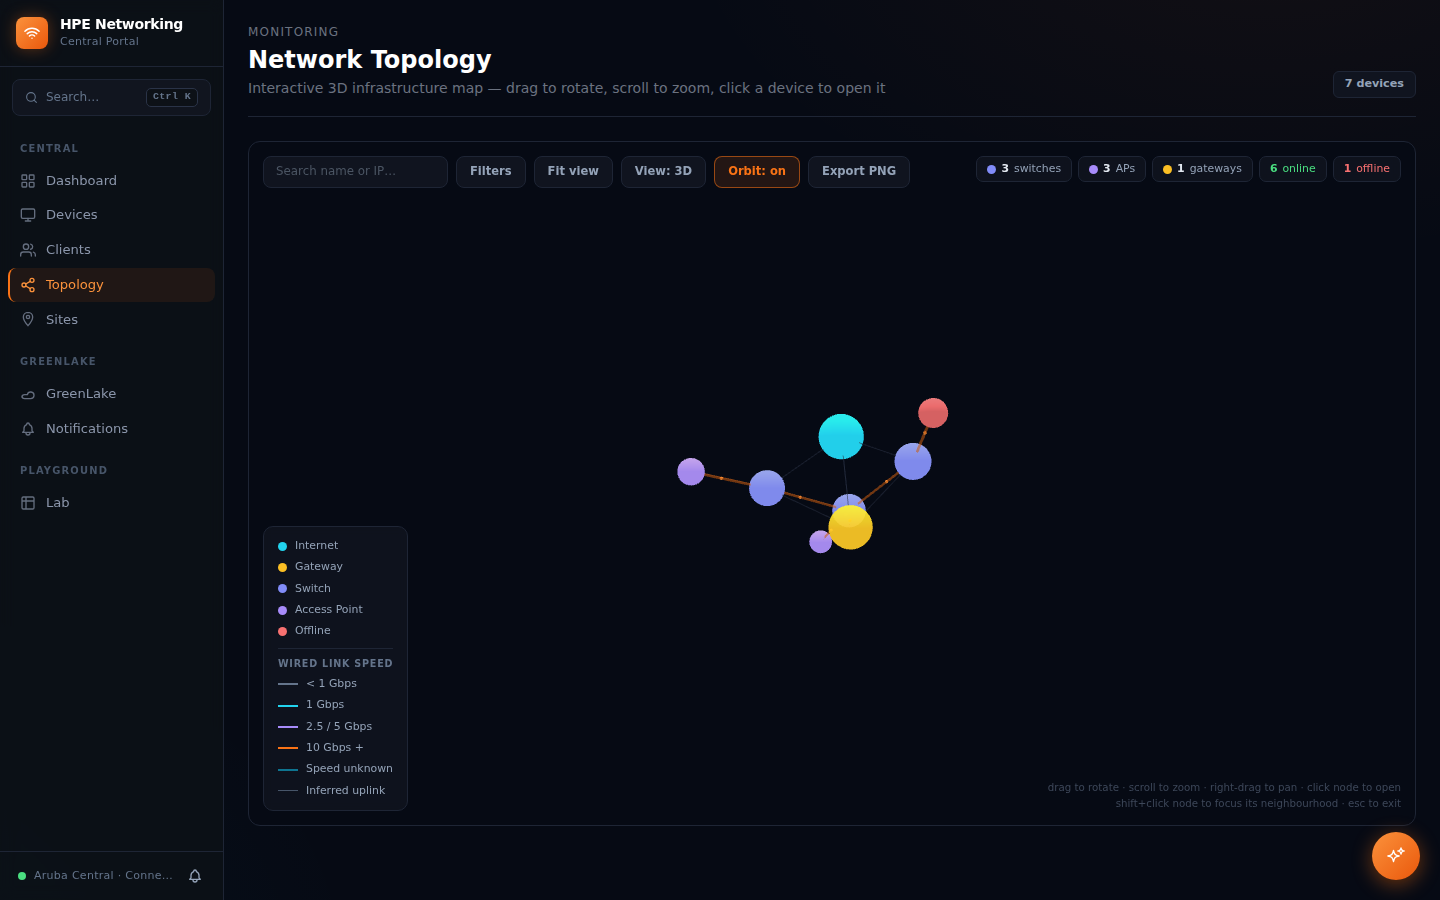
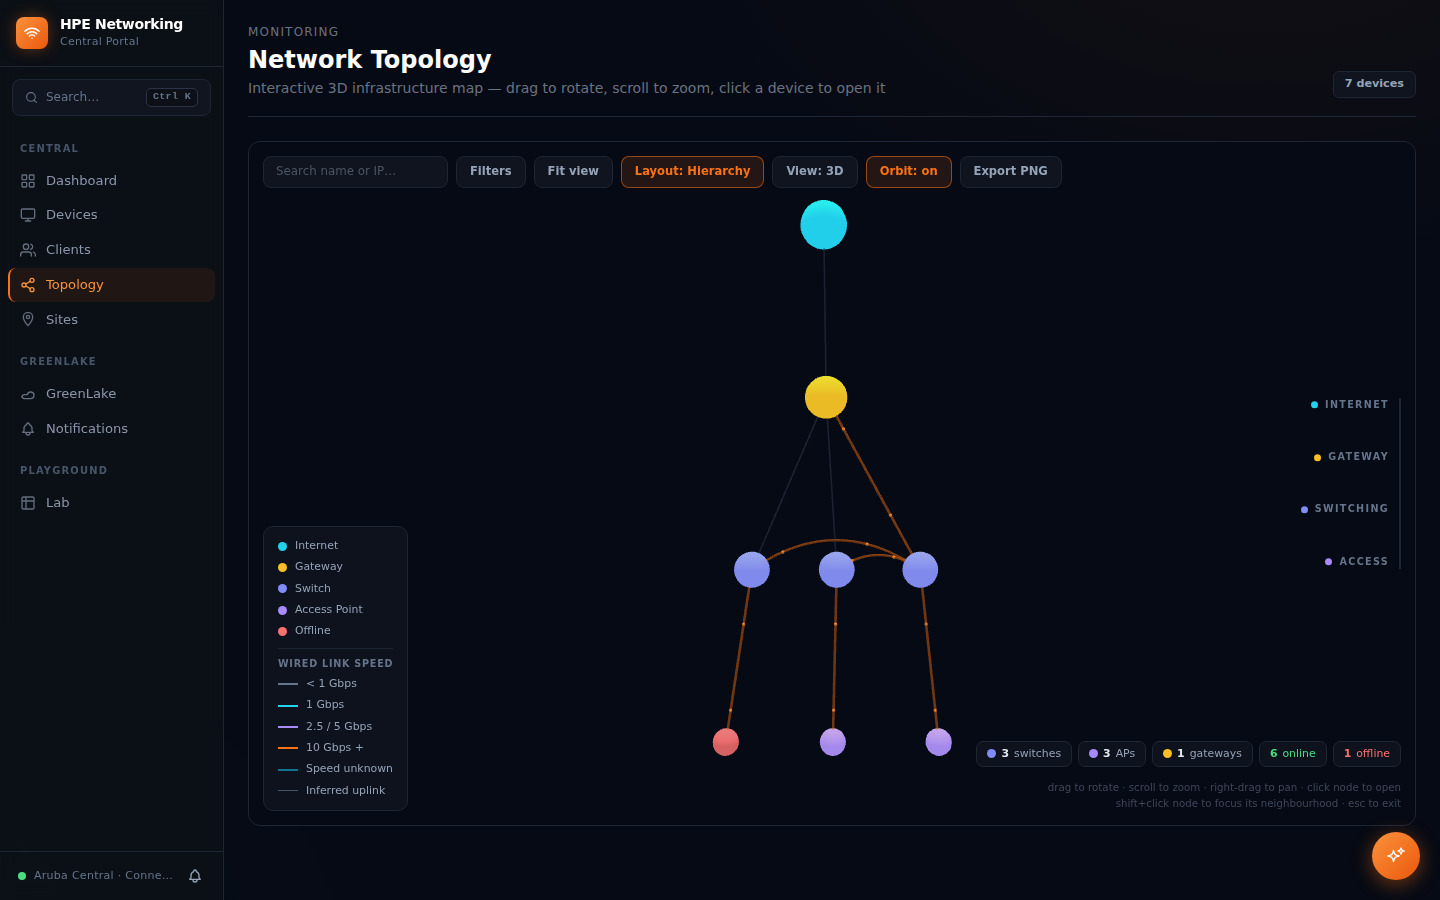
Hierarchical topology layout as default
- Tiered layout: internet / gateway / switching / access layers
  with barycenter ordering so links run vertically under parents
- Layout toggle (Hierarchy / Free 3D) persisted in localStorage;
  works with 2D mode, filters, focus, search, export
- Same-tier trunk links arc over siblings; tier rail labels;
  elevated front camera with gentle sway
- Refresh topology screenshots

https://claude.ai/code/session_01QrYoywE4bDjUDQWJe5nVXu

diff --git a/app/templates/topology.html b/app/templates/topology.html
@@ -55,6 +55,11 @@
     .topo-tip-dot { width:7px; height:7px; border-radius:50%; display:inline-block; }
     @keyframes topo-spin { to { transform:rotate(360deg); } }
     .topo-spinner { width:34px; height:34px; border-radius:50%; border:3px solid #1e2535; border-top-color:#f97316; animation:topo-spin .8s linear infinite; }
+    /* Tier axis strip (hierarchy layout): legend-like vertical rail on the
+       left edge listing the network tiers top-to-bottom. */
+    #topo-tieraxis { right:14px; top:50%; transform:translateY(-50%); display:none; flex-direction:column; align-items:flex-end; gap:38px; border-right:2px solid #1e2535; padding-right:10px; pointer-events:none; z-index:15; }
+    .topo-tier-label { display:flex; align-items:center; gap:7px; font-size:.6rem; font-weight:700; letter-spacing:.14em; text-transform:uppercase; color:#64748b; white-space:nowrap; }
+    .topo-tier-label .topo-dot { width:7px; height:7px; }
     /* Small screens: the absolute overlays collide on a narrow canvas —
        give the toolbar the full width, drop the duplicate stats strip and
        the mouse-centric hint, and slim the legend down. Visual only. */
@@ -65,6 +70,8 @@
         .topo-legend { padding:8px 11px !important; }
         .topo-legend .topo-legend-row { font-size:.62rem; gap:6px; margin-top:3px; }
         .topo-legend-speeds { display:none !important; }
+        #topo-tieraxis { gap:26px; padding-right:8px; }
+        .topo-tier-label { font-size:.54rem; letter-spacing:.1em; }
     }
 </style>
 
@@ -79,6 +86,7 @@
         </div>
         <button id="btn-filters" class="topo-btn" type="button" aria-expanded="false" aria-controls="topo-filters" aria-label="Toggle filters panel">Filters</button>
         <button id="btn-fit" class="topo-btn" type="button">Fit view</button>
+        <button id="btn-layout" class="topo-btn active" type="button" aria-label="Toggle between hierarchy and free 3D layout">Layout: Hierarchy</button>
         <button id="btn-dim" class="topo-btn" type="button">View: 3D</button>
         <button id="btn-orbit" class="topo-btn active" type="button">Orbit: on</button>
         <button id="btn-export" class="topo-btn" type="button" aria-label="Export topology view as PNG image">Export PNG</button>
@@ -107,8 +115,16 @@
         </div>
     </div>
 
-    <!-- Stats strip -->
-    <div class="topo-overlay topo-stats" style="top:14px;right:14px;display:flex;gap:6px;flex-wrap:wrap;justify-content:flex-end;">
+    <!-- Tier axis (hierarchy layout only; toggled from JS) -->
+    <div id="topo-tieraxis" class="topo-overlay" aria-hidden="true">
+        <div class="topo-tier-label"><span class="topo-dot" style="background:#22d3ee;"></span>Internet</div>
+        <div class="topo-tier-label"><span class="topo-dot" style="background:#fbbf24;"></span>Gateway</div>
+        <div class="topo-tier-label"><span class="topo-dot" style="background:#818cf8;"></span>Switching</div>
+        <div class="topo-tier-label"><span class="topo-dot" style="background:#a78bfa;"></span>Access</div>
+    </div>
+
+    <!-- Stats strip (bottom-right, above the hint, clear of the toolbar) -->
+    <div class="topo-overlay topo-stats" style="bottom:58px;right:14px;display:flex;gap:6px;flex-wrap:wrap;justify-content:flex-end;max-width:46%;">
         <span class="topo-chip"><span class="topo-dot" style="background:#818cf8;"></span><b id="stat-switch">0</b> switches</span>
         <span class="topo-chip"><span class="topo-dot" style="background:#a78bfa;"></span><b id="stat-ap">0</b> APs</span>
         <span class="topo-chip"><span class="topo-dot" style="background:#fbbf24;"></span><b id="stat-gateway">0</b> gateways</span>
@@ -226,6 +242,7 @@ if (typeof module !== 'undefined' && module.exports) { module.exports = { topoFi
         linkReal: '#0e7490',
         linkRealHi: '#22d3ee',
         linkVirtual: '#283042',
+        linkVirtualHier: '#3a4660',
         linkVirtualHi: '#475569',
         linkFaded: '#131a26'
     };
@@ -286,9 +303,14 @@ if (typeof module !== 'undefined' && module.exports) { module.exports = { topoFi
     gws.forEach(function (g) {
         allLinks.push({ id: '__inet_gw__' + g.id, source: '__internet__', target: g.id, virtual: true });
     });
-    sws.forEach(function (s) {
-        allLinks.push({ id: '__inet_sw__' + s.id, source: '__internet__', target: s.id, virtual: true });
-    });
+    // Switches hang off the internet hub directly only when there is no
+    // gateway to route through — otherwise those links would skip a tier
+    // and clutter the hierarchy.
+    if (!gws.length) {
+        sws.forEach(function (s) {
+            allLinks.push({ id: '__inet_sw__' + s.id, source: '__internet__', target: s.id, virtual: true });
+        });
+    }
     gws.forEach(function (g) {
         sws.forEach(function (s) {
             if (!realPairs.has(pairKey(g.id, s.id))) {
@@ -389,12 +411,16 @@ if (typeof module !== 'undefined' && module.exports) { module.exports = { topoFi
             return l.virtual ? C.linkVirtualHi : linkSpeedColor(l, true);
         }
         if (highlightLinks.has(l)) return l.virtual ? C.linkVirtualHi : linkSpeedColor(l, true);
-        return l.virtual ? C.linkVirtual : linkSpeedColor(l, false);
+        // Hierarchy mode: inferred uplinks form the visible spine of the tree.
+        if (l.virtual) return layoutMode === 'hier' ? C.linkVirtualHier : C.linkVirtual;
+        return linkSpeedColor(l, false);
     };
     var linkWidthAcc = function (l) {
         if (focusIds) return focusLinkSet.has(l) ? (l.virtual ? 0.8 : 2.4) : 0;
         if (highlightLinks.has(l)) return l.virtual ? 0.8 : 2.4;
-        return l.virtual ? 0 : 1.2;
+        // In hierarchy mode the inferred uplinks are the structural spine of
+        // the diagram, so give them a hairline body instead of a faint line.
+        return l.virtual ? (layoutMode === 'hier' ? 0.7 : 0) : 1.2;
     };
     var particlesAcc = function (l) {
         if (l.virtual) return 0;
@@ -402,11 +428,97 @@ if (typeof module !== 'undefined' && module.exports) { module.exports = { topoFi
         return highlightLinks.has(l) ? 4 : 2;
     };
 
+    // ── Hierarchical "tiered" layout (default) ─────────────────────────────
+    // Classic network-diagram view: internet on top, then gateways, then
+    // switches, then APs/unknowns. Each node's y is pinned to its tier plane
+    // (node.fy) and z is pinned to 0 (node.fz) so the scene reads like a
+    // flat diagram while the force engine spreads nodes horizontally and the
+    // 3D camera can still orbit it. "Free 3D" clears all pins.
+    var TIER_OF = { internet: 0, gateway: 1, switch: 2, ap: 3, unknown: 3 };
+    var TIER_H = 80;   // vertical spacing between tier planes
+    var SLOT_W = 60;   // horizontal slot width when seeding x positions
+    var nodeTier = function (n) {
+        var t = TIER_OF[n.group];
+        return t === undefined ? 3 : t;
+    };
+    var tierYOf = function (t) { return (1.5 - t) * TIER_H; };  // +120 … -120
+
+    var LAYOUT_KEY = 'topo-layout';
+    var layoutMode = 'hier';
+    try { if (localStorage.getItem(LAYOUT_KEY) === 'free') layoutMode = 'free'; } catch (e) { /* private mode */ }
+
+    // Pin fy/fz for every visible node and seed orderly x positions with a
+    // top-down barycenter sweep: each node is anchored at the mean x of its
+    // neighbours in higher tiers (APs land under their uplink switch,
+    // switches under their gateway), so links run mostly vertically with
+    // minimal crossings. Orphans (no uplink visible) go to the right edge.
+    function applyHierarchyPins(ns, ls) {
+        var adj = {};
+        ns.forEach(function (n) { adj[n.id] = []; });
+        ls.forEach(function (l) {
+            var s = endpointId(l.source), t = endpointId(l.target);
+            if (adj[s] && adj[t]) { adj[s].push(t); adj[t].push(s); }
+        });
+        var byId = {};
+        ns.forEach(function (n) { byId[n.id] = n; });
+        var tiers = [[], [], [], []];
+        ns.forEach(function (n) { tiers[nodeTier(n)].push(n); });
+        var byLabel = function (a, b) {
+            return String(a.label || a.id).localeCompare(String(b.label || b.id));
+        };
+        tiers.forEach(function (tn, t) {
+            if (t === 0) {
+                tn.sort(byLabel);
+            } else {
+                tn.forEach(function (n) {
+                    var sum = 0, cnt = 0;
+                    adj[n.id].forEach(function (oid) {
+                        var o = byId[oid];
+                        if (o && nodeTier(o) < t && typeof o.__hx === 'number') {
+                            sum += o.__hx; cnt++;
+                        }
+                    });
+                    n.__anchor = cnt ? sum / cnt : Infinity;
+                });
+                tn.sort(function (a, b) {
+                    // Infinity-Infinity is NaN (falsy) -> falls through to label
+                    return (a.__anchor - b.__anchor) || byLabel(a, b);
+                });
+            }
+            tn.forEach(function (n, i) {
+                n.__hx = (i - (tn.length - 1) / 2) * SLOT_W;
+            });
+        });
+        ns.forEach(function (n) {
+            var y = tierYOf(nodeTier(n));
+            n.x = n.__hx;
+            n.y = y;
+            n.z = 0;
+            n.fy = y;   // lock the tier plane
+            n.fz = 0;   // lock onto a flat diagram plane
+            delete n.fx;
+        });
+    }
+
+    function clearLayoutPins(ns) {
+        ns.forEach(function (n) {
+            delete n.fx; delete n.fy; delete n.fz;
+            delete n.__hx; delete n.__anchor;
+        });
+    }
+
+    // Seed the default layout before the engine boots.
+    if (layoutMode === 'hier') applyHierarchyPins(nodes, links);
+
     // ── Graph ──────────────────────────────────────────────────────────────
     function showFallback() {
         loadingEl.style.display = 'none';
         fallbackEl.style.display = 'flex';
     }
+    // Narrow canvases keep the wrapped toolbar overlaid on the scene; a
+    // moderate padding there keeps the top (internet) tier clear of it
+    // (zoomToFit pads both axes, so large values over-shrink the graph).
+    function fitPadding() { return el.clientWidth < 640 ? 70 : 90; }
     var booted = false;
     // Watchdog: if the engine never produces a first tick (silent boot
     // failure), drop to the fallback instead of spinning forever.
@@ -434,6 +546,15 @@ if (typeof module !== 'undefined' && module.exports) { module.exports = { topoFi
             .linkColor(linkColorAcc)
             .linkWidth(linkWidthAcc)
             .linkOpacity(0.55)
+            // In hierarchy mode, links between nodes of the same tier (e.g.
+            // switch-to-switch trunks) arc out of the row so they don't run
+            // straight through sibling nodes sitting between the endpoints.
+            .linkCurvature(function (l) {
+                if (layoutMode !== 'hier') return 0;
+                var s = l.source, t = l.target;
+                if (!s || !t || typeof s !== 'object' || typeof t !== 'object') return 0;
+                return nodeTier(s) === nodeTier(t) ? 0.35 : 0;
+            })
             .linkDirectionalParticles(particlesAcc)
             .linkDirectionalParticleWidth(1.6)
             // Particle colour and speed both track the link's negotiated
@@ -464,6 +585,38 @@ if (typeof module !== 'undefined' && module.exports) { module.exports = { topoFi
         showFallback();
         return;
     }
+
+    // Same-tier spacing force (hierarchy mode only). The vendored bundle
+    // doesn't export d3.forceCollide, so register a tiny custom force that
+    // nudges same-tier neighbours apart along x whenever a reheat (filter,
+    // 2D/3D switch, layout toggle) packs a row too tightly.
+    var ROW_GAP = 55;
+    function tierSpacingForce() {
+        var ns = [];
+        function force(alpha) {
+            if (layoutMode !== 'hier') return;
+            var rows = {};
+            ns.forEach(function (n) {
+                var t = nodeTier(n);
+                (rows[t] = rows[t] || []).push(n);
+            });
+            Object.keys(rows).forEach(function (k) {
+                var row = rows[k].sort(function (a, b) { return a.x - b.x; });
+                for (var i = 1; i < row.length; i++) {
+                    var a = row[i - 1], b = row[i];
+                    var overlap = ROW_GAP - (b.x - a.x);
+                    if (overlap > 0) {
+                        var push = overlap * 0.5 * alpha;
+                        a.vx = (a.vx || 0) - push;
+                        b.vx = (b.vx || 0) + push;
+                    }
+                }
+            });
+        }
+        force.initialize = function (initNodes) { ns = initNodes; };
+        return force;
+    }
+    try { Graph.d3Force('tierSpacing', tierSpacingForce()); } catch (e) { /* spacing is cosmetic */ }
 
     // Glowing-sphere effect: 3d-force-graph builds MeshLambertMaterial
     // spheres for nodes — drive their emissive channel from the node color
@@ -534,7 +687,12 @@ if (typeof module !== 'undefined' && module.exports) { module.exports = { topoFi
     Graph.onEngineStop(function () {
         if (fitted) return;
         fitted = true;
-        Graph.zoomToFit(800, 90);
+        if (layoutMode === 'hier') {
+            // Slightly elevated front view so the tier planes read as layers
+            // (zoomToFit then keeps this direction and only fixes distance).
+            Graph.cameraPosition({ x: 0, y: TIER_H * 2.2, z: 620 }, { x: 0, y: 0, z: 0 }, 0);
+        }
+        Graph.zoomToFit(800, fitPadding());
         setTimeout(startOrbit, 1400);
     });
 
@@ -548,8 +706,15 @@ if (typeof module !== 'undefined' && module.exports) { module.exports = { topoFi
         var angle = Math.atan2(p.x, p.z);
         var dist = Math.max(Math.hypot(p.x, p.z), 200);
         var y = p.y;
+        var base = angle, t = 0;
         orbitTimer = setInterval(function () {
-            angle += Math.PI / 1400;
+            if (layoutMode === 'hier') {
+                // Gentle sway: the flat hierarchy plane never goes edge-on.
+                t += 0.012;
+                angle = base + Math.sin(t) * 0.45;
+            } else {
+                angle += Math.PI / 1400;
+            }
             Graph.cameraPosition({ x: dist * Math.sin(angle), y: y, z: dist * Math.cos(angle) });
         }, 40);
         orbitBtn.classList.add('active');
@@ -568,17 +733,53 @@ if (typeof module !== 'undefined' && module.exports) { module.exports = { topoFi
     // ── Toolbar: fit / 2D-3D toggle / search ───────────────────────────────
     document.getElementById('btn-fit').addEventListener('click', function () {
         stopOrbit();
-        Graph.zoomToFit(800, 90);
+        Graph.zoomToFit(800, fitPadding());
     });
 
     var dimBtn = document.getElementById('btn-dim');
     dimBtn.addEventListener('click', function () {
         is2D = !is2D;
         stopOrbit();
+        // Pins survive the dimension switch: in 2D the engine simply ignores
+        // z, so fy still produces the classic flat tree diagram.
+        if (layoutMode === 'hier') applyHierarchyPins(nodes, links);
         Graph.numDimensions(is2D ? 2 : 3);
         dimBtn.textContent = is2D ? 'View: 2D' : 'View: 3D';
         dimBtn.classList.toggle('active', is2D);
-        setTimeout(function () { Graph.zoomToFit(800, 90); }, 700);
+        setTimeout(function () { Graph.zoomToFit(800, fitPadding()); }, 700);
+    });
+
+    // ── Layout toggle: tiered hierarchy (default) vs free-floating 3D ──────
+    var layoutBtn = document.getElementById('btn-layout');
+    var tierAxis = document.getElementById('topo-tieraxis');
+    function syncLayoutUi() {
+        var hier = layoutMode === 'hier';
+        layoutBtn.textContent = hier ? 'Layout: Hierarchy' : 'Layout: Free 3D';
+        layoutBtn.classList.toggle('active', hier);
+        tierAxis.style.display = hier ? 'flex' : 'none';
+    }
+    syncLayoutUi();
+    layoutBtn.addEventListener('click', function () {
+        layoutMode = (layoutMode === 'hier') ? 'free' : 'hier';
+        try { localStorage.setItem(LAYOUT_KEY, layoutMode); } catch (e) { /* private mode */ }
+        exitFocus(true);             // layout swap moves everything anyway
+        stopOrbit();
+        if (layoutMode === 'hier') {
+            applyHierarchyPins(nodes, links);
+            // Swing back to an elevated front view so the tiers read as rows.
+            var c = Graph.cameraPosition();
+            var d = Math.max(Math.sqrt(c.x * c.x + c.y * c.y + c.z * c.z), 400);
+            Graph.cameraPosition({ x: 0, y: TIER_H * 2.2, z: d }, { x: 0, y: 0, z: 0 }, 500);
+        } else {
+            clearLayoutPins(allNodes);
+        }
+        syncLayoutUi();
+        // Same-tier links straighten/curve and virtual widths flip with mode.
+        Graph.linkCurvature(Graph.linkCurvature());
+        refresh();
+        if (typeof Graph.d3ReheatSimulation === 'function') Graph.d3ReheatSimulation();
+        if (refitTimer) clearTimeout(refitTimer);
+        refitTimer = setTimeout(function () { Graph.zoomToFit(700, fitPadding()); }, 700);
     });
 
     var searchInput = document.getElementById('topo-search');
@@ -678,6 +879,9 @@ if (typeof module !== 'undefined' && module.exports) { module.exports = { topoFi
         var res = topoFilterGraph(allNodes, allLinks, filterState);
         nodes = res.nodes;
         links = res.links;
+        // Re-pin the visible subset so the tier rows re-pack cleanly
+        // (orderings shift when parents are filtered away).
+        if (layoutMode === 'hier') applyHierarchyPins(nodes, links);
         Graph.graphData({ nodes: nodes, links: links });
         applySearch();                          // recompute matches over visible nodes
         updateCount();
@@ -685,7 +889,7 @@ if (typeof module !== 'undefined' && module.exports) { module.exports = { topoFi
         if (typeof Graph.d3ReheatSimulation === 'function') Graph.d3ReheatSimulation();
         stopOrbit();
         if (refitTimer) clearTimeout(refitTimer);
-        refitTimer = setTimeout(function () { Graph.zoomToFit(700, 90); }, 650);
+        refitTimer = setTimeout(function () { Graph.zoomToFit(700, fitPadding()); }, 650);
         refresh();
     }
 
@@ -792,7 +996,7 @@ if (typeof module !== 'undefined' && module.exports) { module.exports = { topoFi
         focusLinkSet = null;
         exitFocusBtn.style.display = 'none';
         refreshSizes();
-        if (!skipFit) Graph.zoomToFit(700, 90);
+        if (!skipFit) Graph.zoomToFit(700, fitPadding());
     }
 
     exitFocusBtn.addEventListener('click', function () { exitFocus(); });